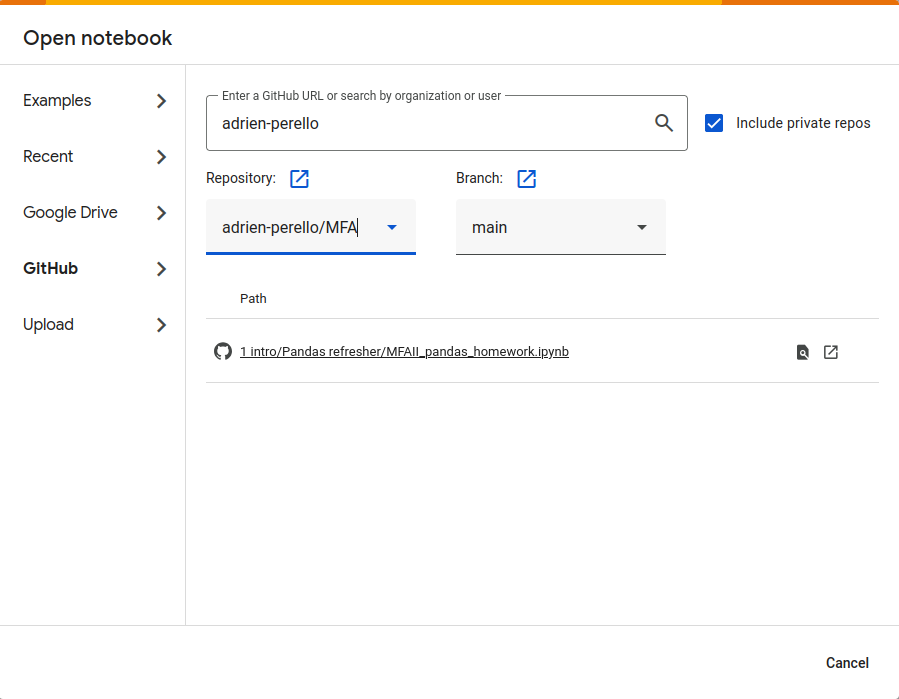
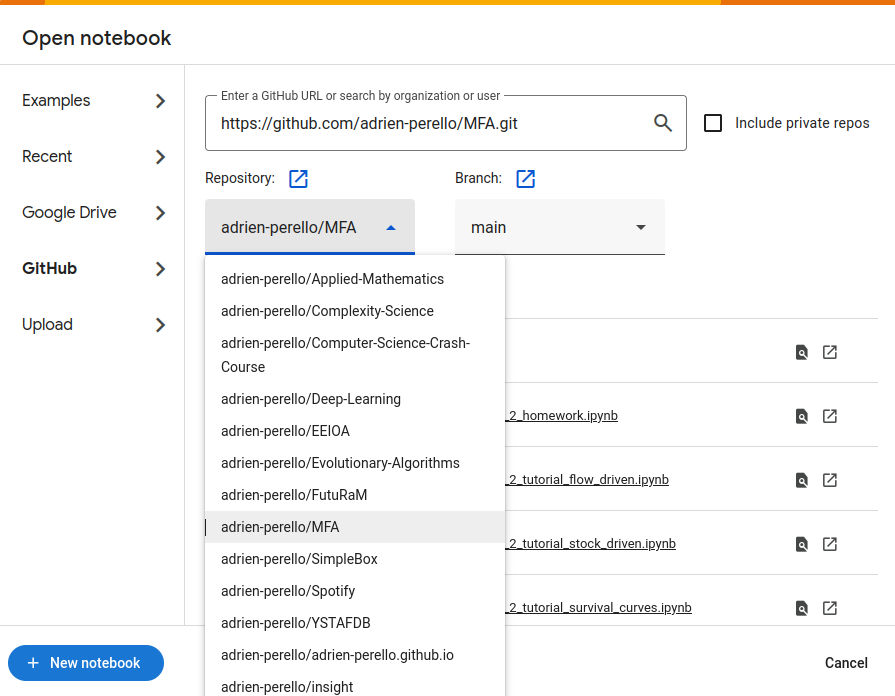
Update installation instructions

diff --git a/README.md b/README.md
@@ -57,7 +57,7 @@
 
 - **Option 1:** Using the Graphical User Interface
   - Open **Anaconda Navigator** 
-  - Click on the **Environments tab** in the left panel
+  - Click on the **Environments tab** in the left panel (see screenshot below)
   - **[Select your virtual environment](https://www.anaconda.com/docs/tools/anaconda-navigator/tutorials/manage-environments)** to activate it (e.g., `dmfa` or your custom name).
     - Please note that it might take a few minutes to load.
     - The environment has successfully activated when the name appears in green with a green arrow
@@ -105,20 +105,29 @@ If you don’t want to install anything, you can run the notebooks using a web-b
 
 #### via Binder
 
-- Go to [Binder](https://mybinder.org/).
-- Enter the GitHub repository URL in the "GitHub repository name or URL" field.
-- Specify the branch and the file to open (optional)
+- Copy the **URL of the jupyter notebebook** you want to launch
+  - e.g. `https://github.com/adrien-perello/MFA/blob/main/01_intro/code/week_1_assignment.ipynb`
+- Go to **[Binder](https://mybinder.org/)**.
+- Enter the **GitHub repository URL** in the "GitHub repository name or URL" field
+  - e.g. `https://github.com/adrien-perello/MFA/`
+- Specify **the branch** (usually `main`)
+- Specify the **path** to the **folder** or the **jupyter file**
+  - e.g. `01_intro/code/week_1_assignment.ipynb` or `01_intro/code`
 - Click on "Launch"
 
-![mybinder](./img/mybinder.png)
+> **Note**: 
+> - Notice that the original URL is composed of the <span style="color: #1f77b4;">URL to the repository</span> + the <span style="color: #ff7f0e;">branch</span> + the <span style="color: #2ca02c;">path to the jupyter file</span>: "<span style="color: #1f77b4;">https://github.com/adrien-perello/MFA/</span> blob/ <span style="color: #ff7f0e;"></span><span style="color: #ff7f0e;">main/</span> <span style="color: #2ca02c;">01_intro/code/week_1_assignment.ipynb</span>"
+> The more you are specific about the folder/file you want to load, the faster it will be to launch Binder (building a Docker image can be slow)
 
-> **Note**: It is recommended that you only open the desired notebook, as building a Docker image can be slow (see screenshot above)
+![mybinder](./img/mybinder.png)
 
 
 #### via Google Colab (requires a Google account)
 
-- Go to [Colab](https://colab.research.google.com/)
-- Click on File > Upload notebook
-- Select Github and specify the URL
+- Go to **[Colab](https://colab.research.google.com/)**
+- Click on **File > Upload notebook**
+- Select Github and specify the URL (**Code > HTTPS >** `https://github.com/adrien-perello/MFA.git`)
+- Select the **repository** (`MFA` in the dropdown menu)
+- Select the **jupyter file** (`.ipynb`) to open
 
 ![colab](./img/colab.png)
